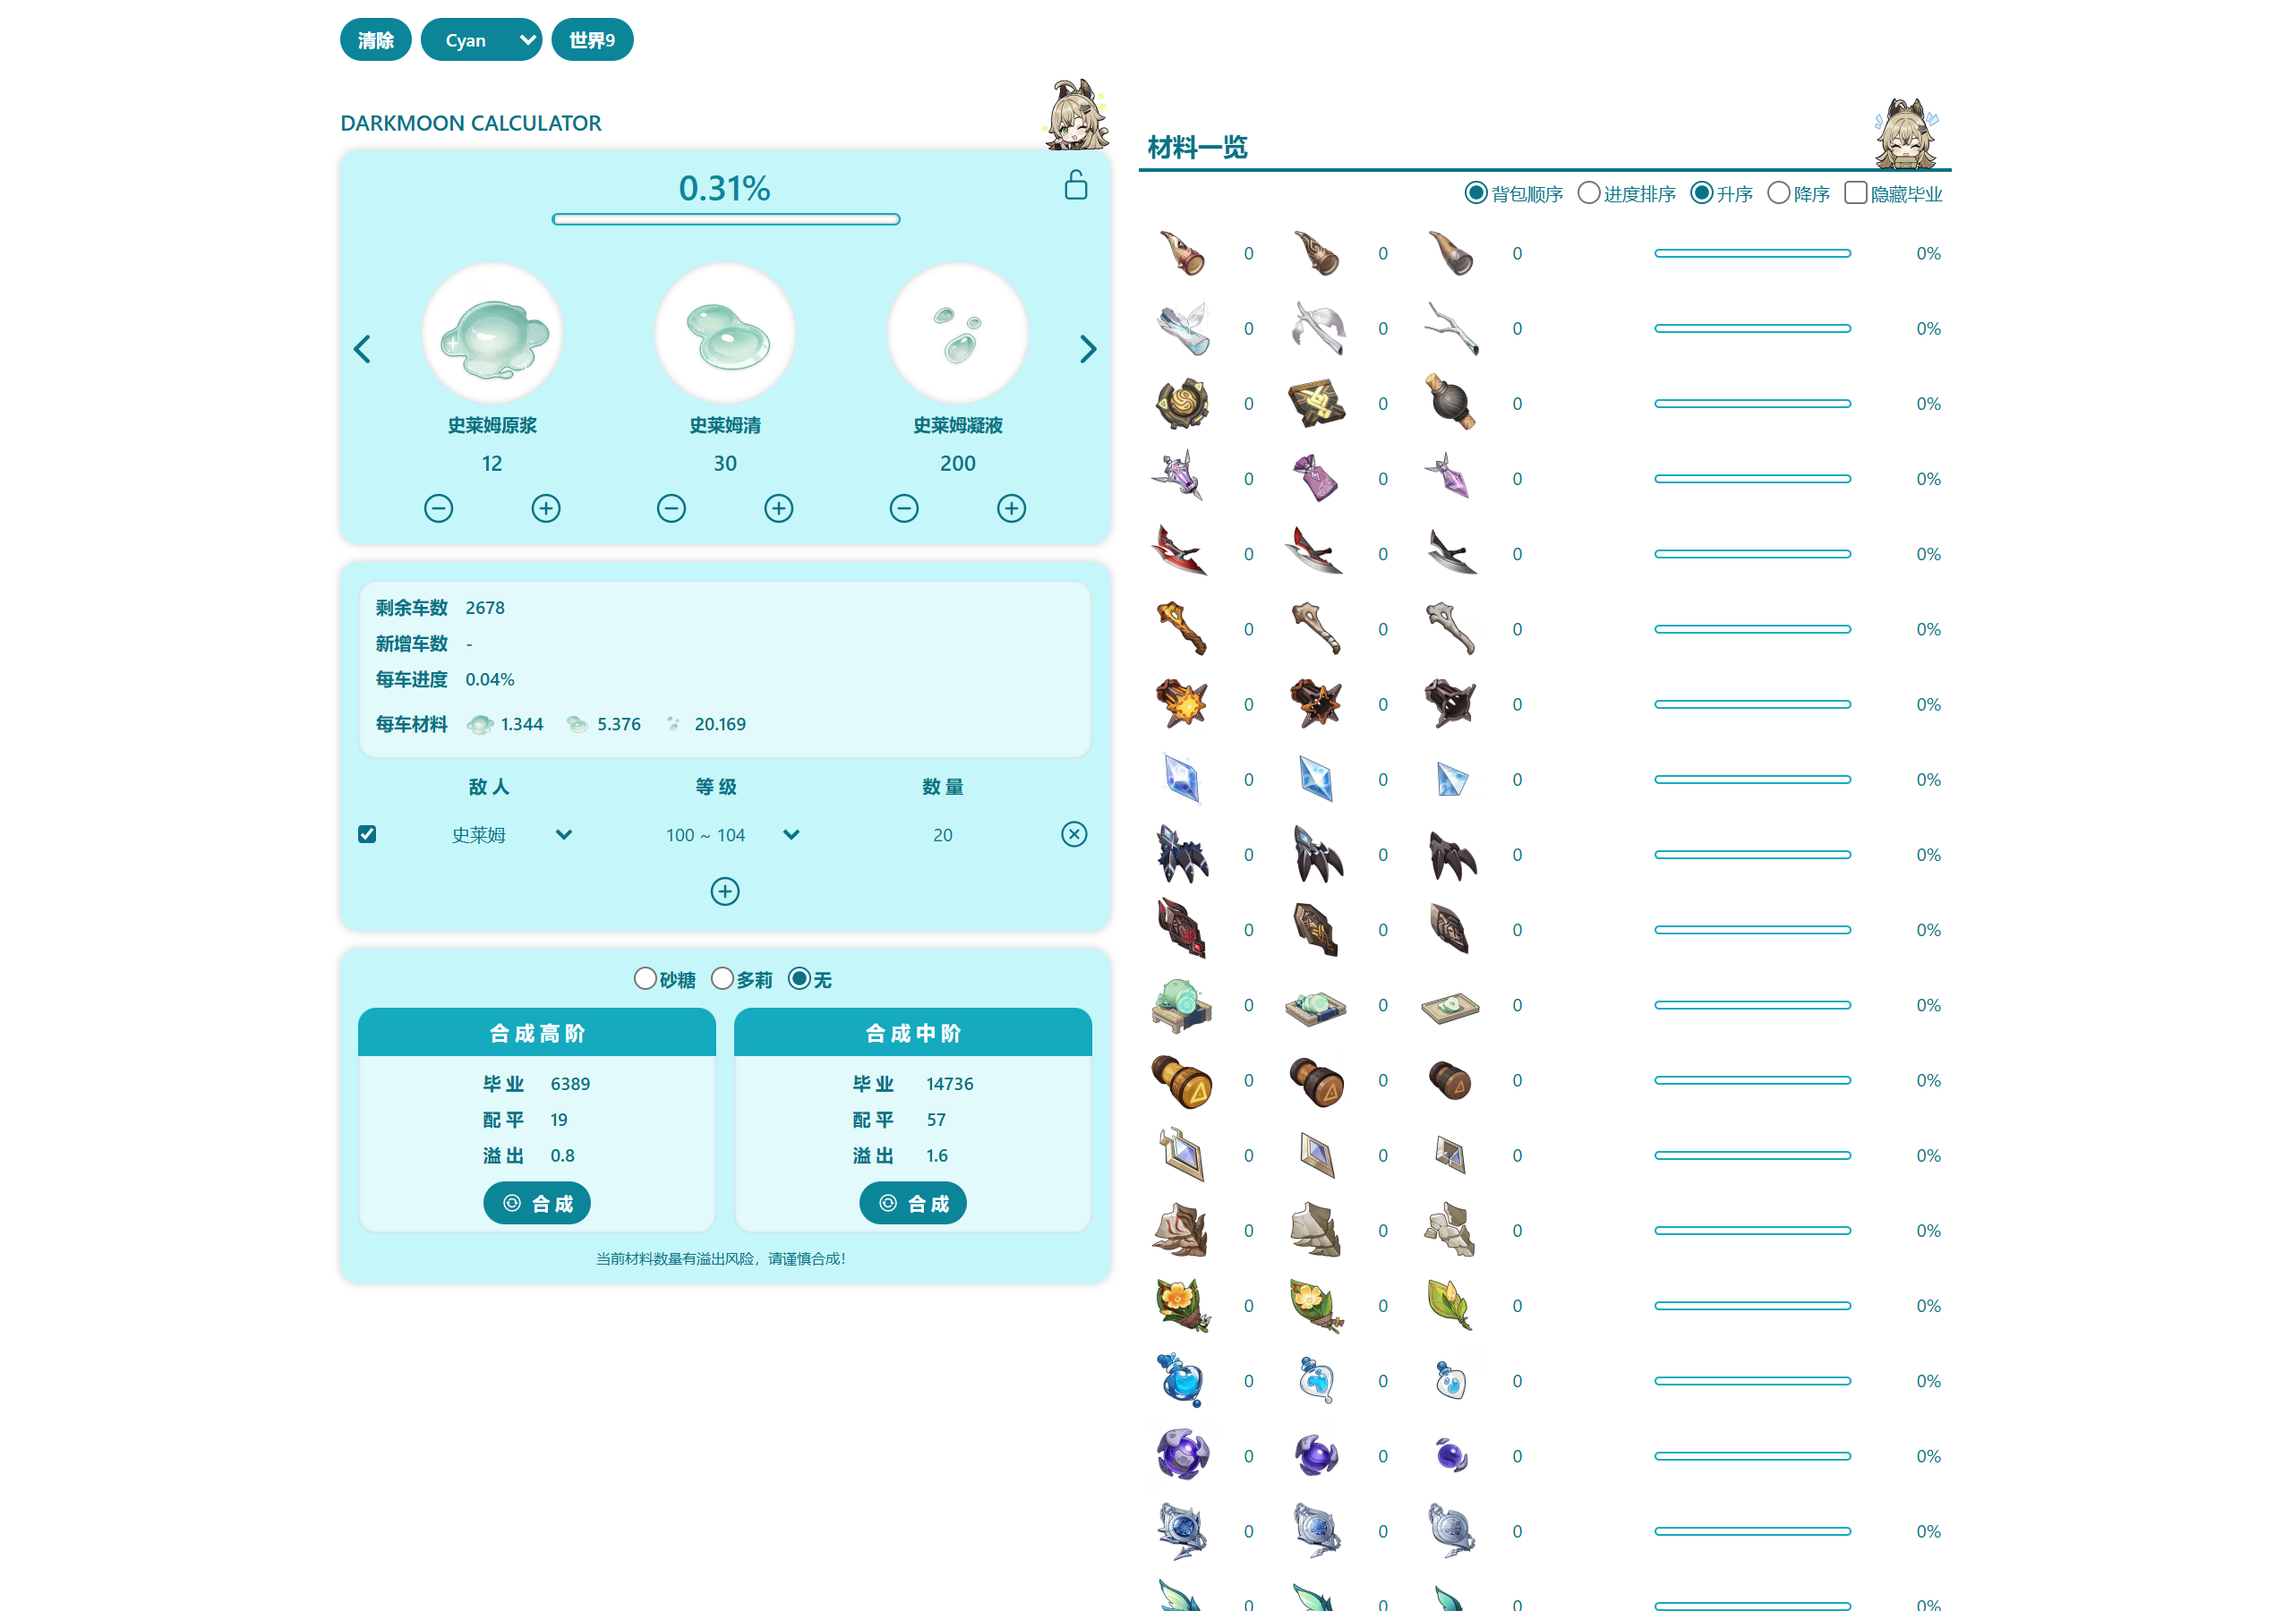
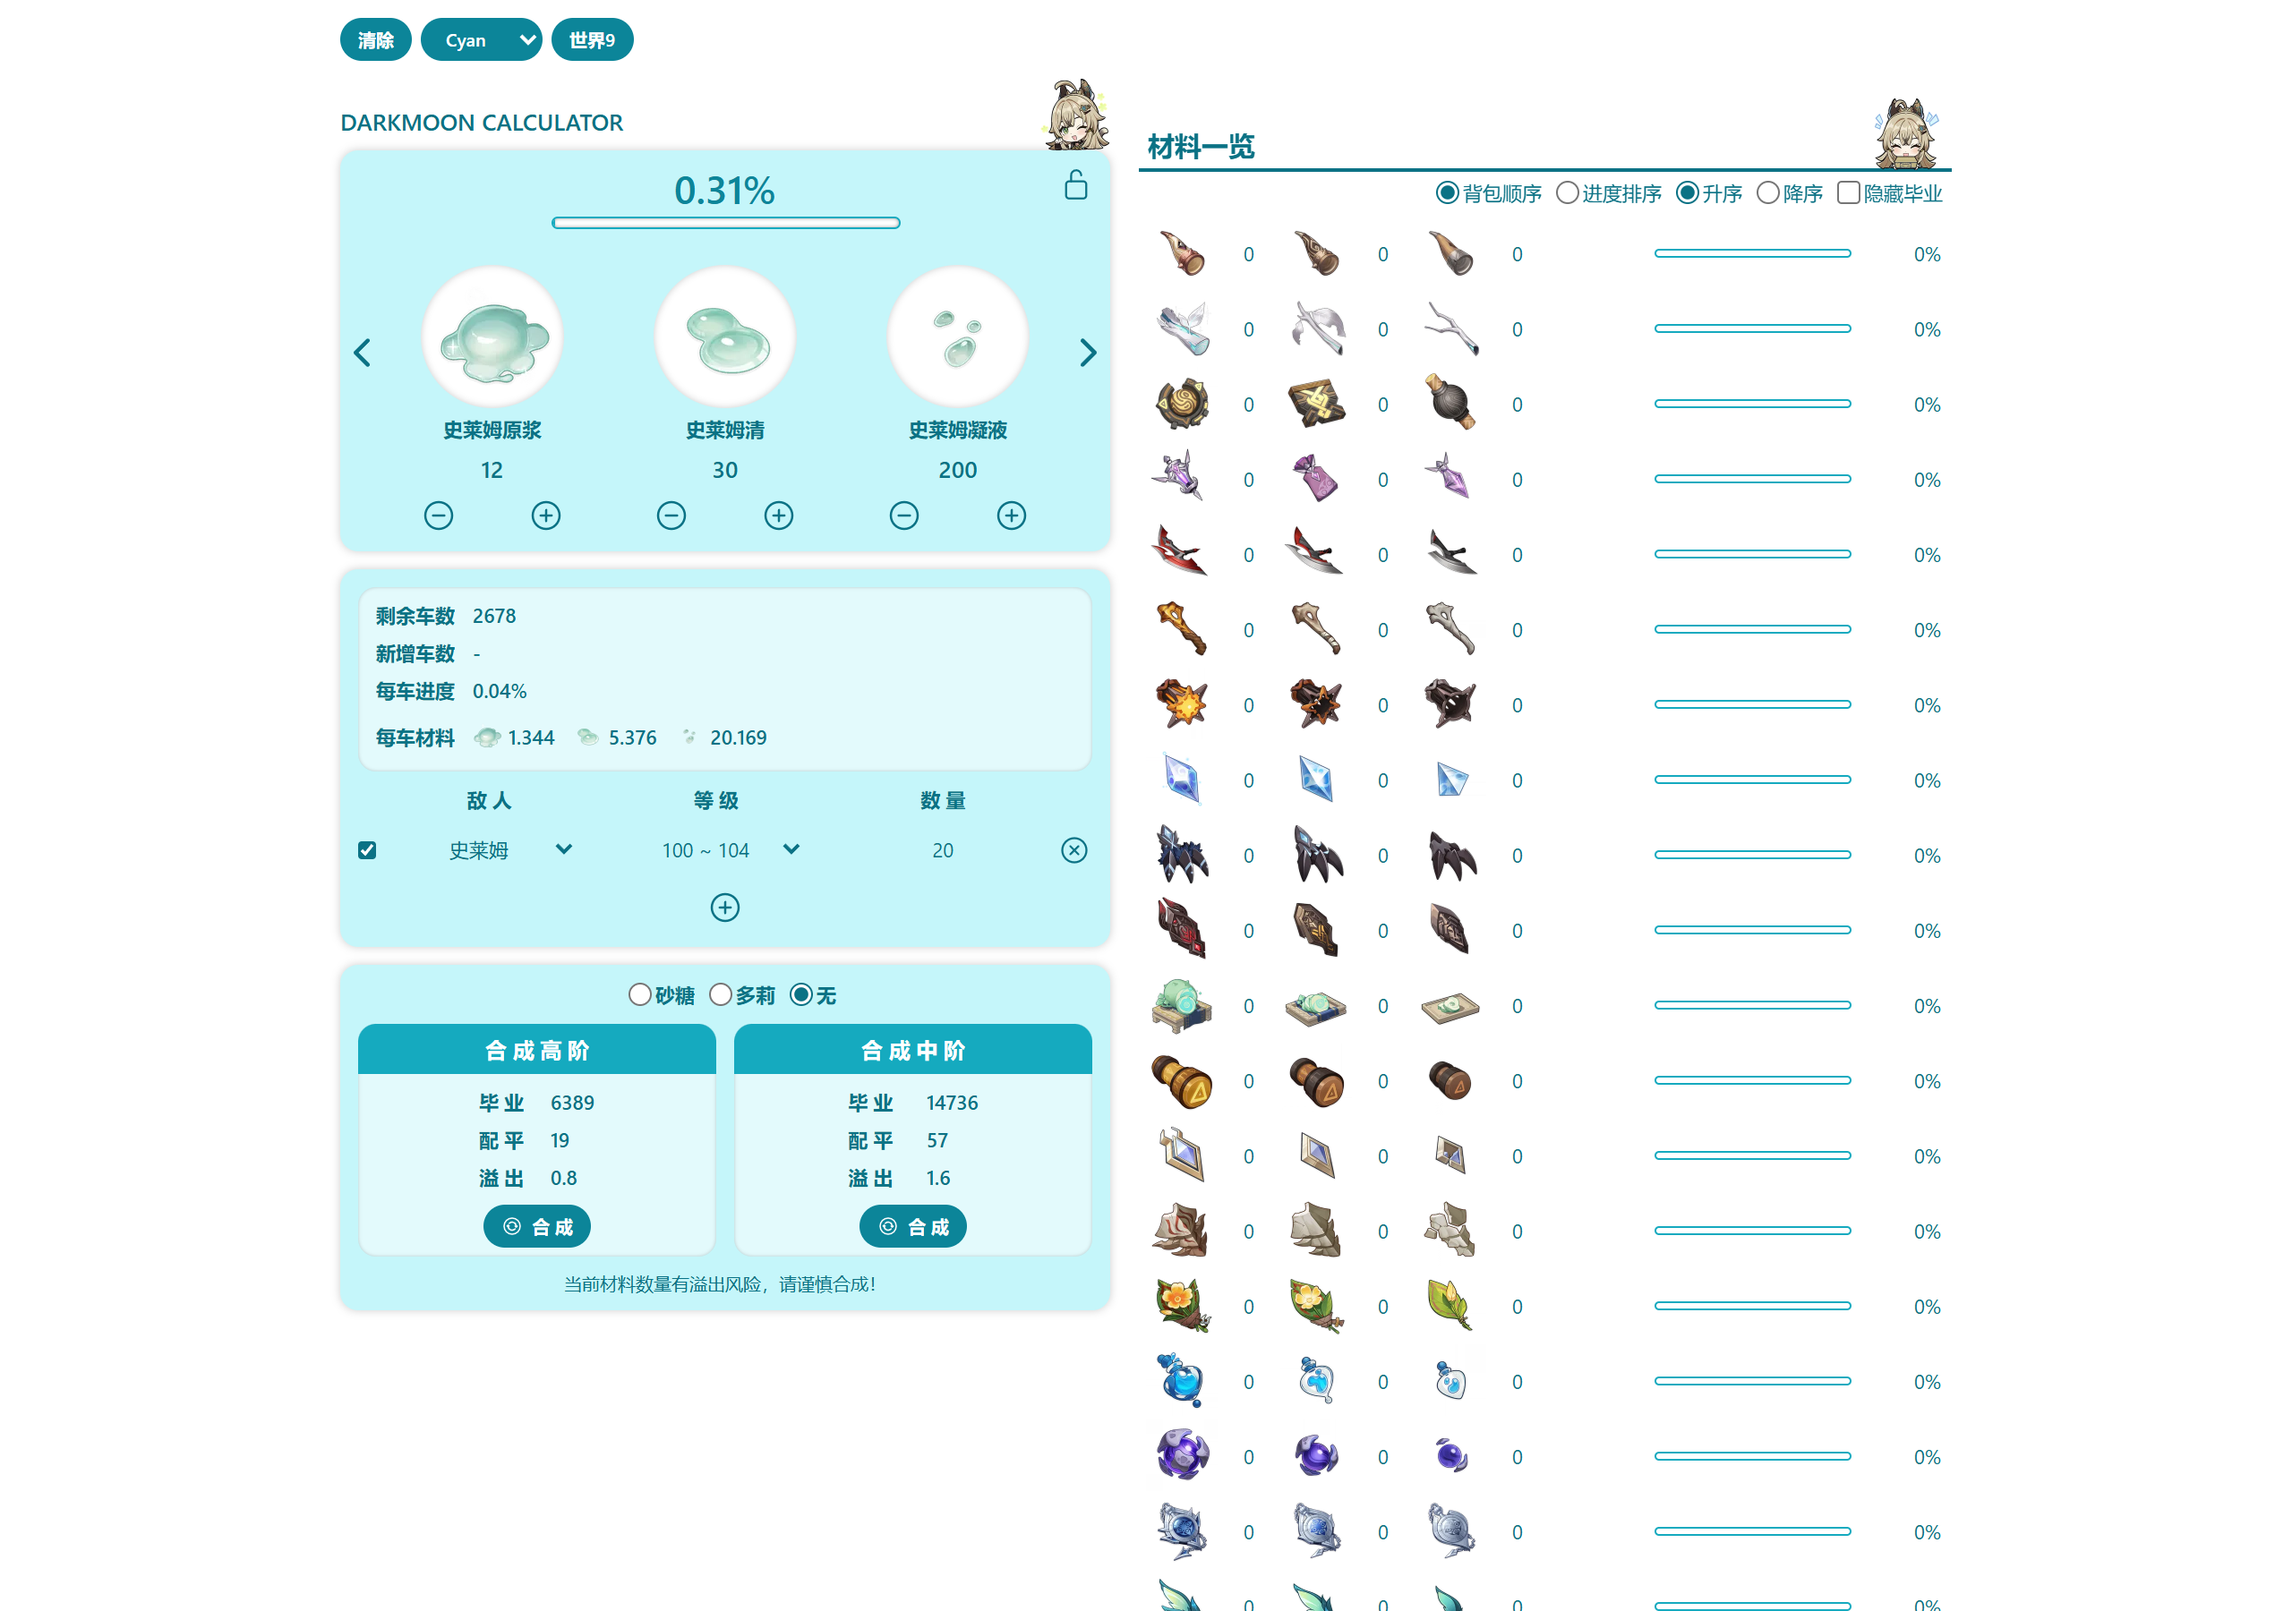
整体上调字号
读者反馈正文偏小：正文 10px 用了 15 处，溢出提示甚至只有 8px。

- 正文 10 → 11px、提示 8 → 10px、合成小标题 11 → 12px、
  导航与页面标题 12 → 13px、一览标题 14 → 15px、进度大数字 20 → 22px
- 只动字号不动盒子，改完扫描了所有 button/select/input/span，
  确认没有元素出现文字溢出
- 修文档截图脚本：loading="lazy" 的图片在整页截图时不会加载，
  现在截图前强制 eager 并等图片 complete，否则移动端长图下半截是空格子
- README 补充说明为什么全站用 px 而不是 Tailwind 的 rem 标度

diff --git a/src/components/MaterialList.tsx b/src/components/MaterialList.tsx
@@ -44,7 +44,7 @@ export function MaterialList() {
 
   return (
     <section className="my-[20px] flex min-h-0 flex-col min-[860px]:my-0 min-[860px]:h-full">
-      <h2 className="flex shrink-0 items-end justify-between border-b-2 border-c9 p-[5px] text-[14px] font-semibold">
+      <h2 className="flex shrink-0 items-end justify-between border-b-2 border-c9 p-[5px] text-[15px] font-semibold">
         材料一览
         <img
           src={MASCOT_IMAGE.list}
@@ -64,7 +64,7 @@ export function MaterialList() {
           }
           className="ml-[8px] accent-c9"
         />
-        <label htmlFor="list-sort-id" className="ml-[2px] text-[10px]">
+        <label htmlFor="list-sort-id" className="ml-[2px] text-[11px]">
           背包顺序
         </label>
 
@@ -78,7 +78,7 @@ export function MaterialList() {
           }
           className="ml-[8px] accent-c9"
         />
-        <label htmlFor="list-sort-progress" className="ml-[2px] text-[10px]">
+        <label htmlFor="list-sort-progress" className="ml-[2px] text-[11px]">
           进度排序
         </label>
 
@@ -92,7 +92,7 @@ export function MaterialList() {
           }
           className="ml-[8px] accent-c9"
         />
-        <label htmlFor="list-order-ascending" className="ml-[2px] text-[10px]">
+        <label htmlFor="list-order-ascending" className="ml-[2px] text-[11px]">
           升序
         </label>
 
@@ -106,7 +106,7 @@ export function MaterialList() {
           }
           className="ml-[8px] accent-c9"
         />
-        <label htmlFor="list-order-descending" className="ml-[2px] text-[10px]">
+        <label htmlFor="list-order-descending" className="ml-[2px] text-[11px]">
           降序
         </label>
 
@@ -119,7 +119,7 @@ export function MaterialList() {
           }
           className="ml-[8px] accent-c9"
         />
-        <label htmlFor="hide-completed" className="ml-[2px] text-[10px]">
+        <label htmlFor="hide-completed" className="ml-[2px] text-[11px]">
           隐藏毕业
         </label>
       </div>
@@ -157,7 +157,7 @@ export function MaterialList() {
                       decoding="async"
                       className="h-[40px] w-[40px]"
                     />
-                    <span className="w-[35px] text-center text-[10px]">
+                    <span className="w-[35px] text-center text-[11px]">
                       {row.numbers[index]}
                     </span>
                   </Fragment>
@@ -172,7 +172,7 @@ export function MaterialList() {
                   label={`${row.names[2]} 毕业进度`}
                   className="max-w-[110px] min-w-[56px] flex-1"
                 />
-                <span className="w-[42px] shrink-0 text-right text-[10px]">
+                <span className="w-[42px] shrink-0 text-right text-[11px]">
                   {row.progress}%
                 </span>
               </span>

diff --git a/src/components/EnemySection.tsx b/src/components/EnemySection.tsx
@@ -14,7 +14,7 @@ import { NumberInput } from "./NumberInput";
 import { iconButton } from "./ui/buttonStyles";
 
 const selectClass =
-  "w-[100px] cursor-pointer rounded-full border-none p-[4px] text-center text-[10px] text-c9 focus:shadow-[0_0_2px_var(--color-9)] focus:outline-none max-sm:w-[80px]";
+  "w-[100px] cursor-pointer rounded-full border-none p-[4px] text-center text-[11px] text-c9 focus:shadow-[0_0_2px_var(--color-9)] focus:outline-none max-sm:w-[80px]";
 
 /** 敌人配置区域：每车材料统计 + 敌人/等级/数量配置行 */
 export function EnemySection() {
@@ -51,7 +51,7 @@ export function EnemySection() {
 
   return (
     <section className="my-[10px] rounded-[10px] bg-c1 p-[10px] shadow-[0_0_5px_rgba(0,0,0,0.2)]">
-      <div className="mb-[10px] flex flex-col gap-[10px] rounded-[10px] bg-c0 p-[10px] text-[10px] font-semibold shadow-[inset_0_0_2px_rgba(0,0,0,0.2)]">
+      <div className="mb-[10px] flex flex-col gap-[10px] rounded-[10px] bg-c0 p-[10px] text-[11px] font-semibold shadow-[inset_0_0_2px_rgba(0,0,0,0.2)]">
         <div>
           剩余车数
           <span data-testid="left-run-times" className="mx-[10px]">
@@ -85,7 +85,7 @@ export function EnemySection() {
         </div>
       </div>
 
-      <div className="mb-[10px] grid grid-cols-[10px_repeat(3,1fr)_20px] items-center justify-items-center text-[10px] font-semibold">
+      <div className="mb-[10px] grid grid-cols-[10px_repeat(3,1fr)_20px] items-center justify-items-center text-[11px] font-semibold">
         <div />
         <div>敌 人</div>
         <div>等 级</div>
@@ -138,7 +138,7 @@ export function EnemySection() {
               value={row.number}
               ariaLabel="敌人数量"
               onCommit={(value) => updateRow(index, { number: value })}
-              className="w-[100px] rounded-full border-none p-[4px] text-center text-[10px] text-c9 focus:shadow-[0_0_2px_var(--color-9)] focus:outline-none max-sm:w-[80px]"
+              className="w-[100px] rounded-full border-none p-[4px] text-center text-[11px] text-c9 focus:shadow-[0_0_2px_var(--color-9)] focus:outline-none max-sm:w-[80px]"
             />
 
             <button

diff --git a/src/components/CraftSection.tsx b/src/components/CraftSection.tsx
@@ -35,11 +35,11 @@ function CraftBlock({
 }: CraftBlockProps) {
   return (
     <div className="flex flex-col items-center gap-[10px] overflow-hidden rounded-[10px] bg-c0 pb-[5px] shadow-[inset_0_0_2px_rgba(0,0,0,0.2)]">
-      <h3 className="w-full bg-c6 p-[8px] text-center text-[11px] font-semibold text-white">
+      <h3 className="w-full bg-c6 p-[8px] text-center text-[12px] font-semibold text-white">
         {title}
       </h3>
 
-      <div className="grid grid-cols-2 gap-x-[15px] gap-y-[10px] text-[10px] font-semibold">
+      <div className="grid grid-cols-2 gap-x-[15px] gap-y-[10px] text-[11px] font-semibold">
         <span>毕 业</span>
         <span data-testid={`${testId}-complete`}>{complete}</span>
         <span>配 平</span>
@@ -97,7 +97,7 @@ export function CraftSection() {
 
   return (
     <section className="my-[10px] grid grid-cols-2 gap-x-[10px] gap-y-[10px] rounded-[10px] bg-c1 p-[10px] shadow-[0_0_5px_rgba(0,0,0,0.2)]">
-      <div className="col-span-2 flex items-center justify-center text-[10px] font-semibold">
+      <div className="col-span-2 flex items-center justify-center text-[11px] font-semibold">
         {CRAFT_MODES.map((mode) => (
           <span key={mode.value} className="flex items-center">
             <input
@@ -135,7 +135,7 @@ export function CraftSection() {
       />
 
       {craftStats.risky && (
-        <p className="col-span-2 text-center text-[8px]">
+        <p className="col-span-2 text-center text-[10px]">
           当前材料数量有溢出风险，请谨慎合成！
         </p>
       )}

diff --git a/src/components/MaterialPanel.tsx b/src/components/MaterialPanel.tsx
@@ -85,7 +85,7 @@ export function MaterialPanel() {
 
       <p
         data-testid="progress-value"
-        className="text-center text-[20px] font-semibold text-c8"
+        className="text-center text-[22px] font-semibold text-c8"
       >
         {progressValue}%
       </p>
@@ -107,13 +107,13 @@ export function MaterialPanel() {
               />
             </div>
 
-            <span className="text-[10px] font-semibold">{names[index]}</span>
+            <span className="text-[11px] font-semibold">{names[index]}</span>
 
             <NumberInput
               value={numbers[index]}
               onCommit={(value) => setNumberAt(index, value)}
               ariaLabel={`${names[index]} 数量`}
-              className="w-[80px] rounded-full border-none py-[2px] text-center text-[12px] font-semibold text-c9 focus:shadow-[0_0_2px_var(--color-9)] focus:outline-none"
+              className="w-[80px] rounded-full border-none py-[2px] text-center text-[13px] font-semibold text-c9 focus:shadow-[0_0_2px_var(--color-9)] focus:outline-none"
             />
 
             <div className="flex w-[80px] items-center justify-between">
@@ -126,7 +126,7 @@ export function MaterialPanel() {
                 <IoRemoveCircleOutline size={20} />
               </button>
 
-              <span className="text-[10px]">
+              <span className="text-[11px]">
                 {locked && lockNumbers ? lockNumbers[index] : ""}
               </span>
 

diff --git a/src/App.tsx b/src/App.tsx
@@ -27,7 +27,7 @@ export default function App() {
       <main className="mx-auto flex max-w-[920px] flex-col gap-[16px] px-[10px] pb-[20px] min-[860px]:flex-row min-[860px]:items-start">
         <div className="min-w-0 min-[860px]:w-[430px] min-[860px]:shrink-0">
           <div className="flex items-end justify-between">
-            <h1 className="my-[10px] mr-[10px] text-[12px] font-semibold">
+            <h1 className="my-[10px] mr-[10px] text-[13px] font-semibold">
               DARKMOON CALCULATOR
             </h1>
             <img

diff --git a/src/components/NavBar.tsx b/src/components/NavBar.tsx
@@ -19,7 +19,7 @@ export function NavBar() {
   };
 
   return (
-    <nav className="mx-auto flex max-w-[920px] items-center gap-[5px] px-[10px] py-[10px] text-[12px] font-semibold">
+    <nav className="mx-auto flex max-w-[920px] items-center gap-[5px] px-[10px] py-[10px] text-[13px] font-semibold">
       <button type="button" className={textButton.primary} onClick={handleClear}>
         清除
       </button>

diff --git a/README.md b/README.md
@@ -244,6 +244,11 @@ python scripts/rename-material-images.py   # 按 key 改名并归到 img/materia
   已用 `useMemo` 保证只在真正相关状态变化时才重算。
 - 未引入 ESLint / Prettier，保持依赖精简；如需可自行添加。
 - 原生弹窗样式不可定制，换成自绘弹窗会改变操作手感，故暂未替换。
+- **尺寸全部用 px，不用 Tailwind 的 rem 标度**：这套版式是从原版 `font-size: 62.5%` 的设计
+  逐个换算下来的，px 能保证像素级一致。标度类（如 `w-17`）实际是
+  `calc(var(--spacing) * 17)` = 4.25rem，只有根字号 16px 时才等于 68px；混用会让
+  「部分尺寸随浏览器字号缩放、部分不变」，紧凑布局立刻错位。
+  所以 IntelliSense 的 `suggestCanonicalClasses` 提示（"可以写成 w-17"）是**有意忽略**的。
 
 ## 常见问题
 
@@ -346,6 +351,15 @@ Windows 上编辑器写临时文件时被文件监视器锁住。`vite.config.ts
   组件里不再手写字符串拼接。
 - 新增 `tests/images.test.ts`：校验每种材料三个品阶都有图、`materials/` 里没有多余文件、
   文件名确实是 kebab-case，防止以后改数据忘了补图。
+
+### 2026-11-20 · 整体上调字号
+
+- 正文 10px → **11px**（15 处）、溢出提示 8px → 10px、合成小标题 11 → 12、
+  导航与页面标题 12 → 13、一览标题 14 → 15、进度大数字 20 → 22。
+- 只动字号不动盒子，改完用脚本扫了一遍所有 `button/select/input/span`，
+  确认没有元素出现 `scrollWidth > clientWidth` 的文字溢出。
+- 顺带修了文档截图脚本：`loading="lazy"` 的图片在整页截图时不会被触发加载，
+  现在截图前强制改成 `eager` 并等所有图片 `complete`，否则移动端长图下半截全是空格子。
 
 ### 2026-11-20 · 材料一览高亮当前材料
 
